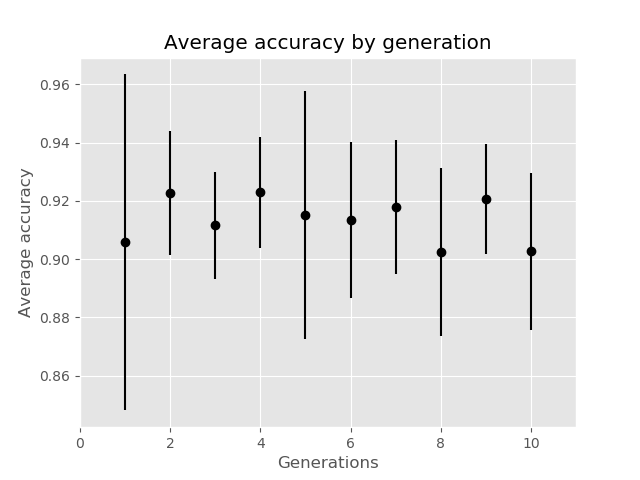
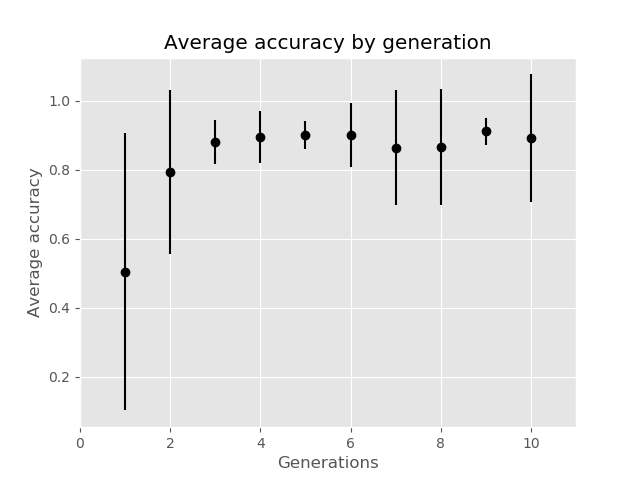
added log feature and updated readme

diff --git a/mnist_sandbox.py b/mnist_sandbox.py
@@ -22,13 +22,15 @@ fnns = ns.Population(
     size = 50
     )
 
-history = fnns.evolve(generations = 10)
+history = fnns.evolve(generations = 20)
 
 print("Best overall genome is:")
 print(history.fittest)
 
+history.save_log(file_name = '/home/dn16382/pCloudDrive/mnist_log.txt')
+
 history.plot(
-    title = "Average accuracy by generation",
-    ylabel = "Average accuracy",
-    saveto = 'mnist_plot.png'
+    title = "Average 1 / (1 - accuracy) by generation",
+    file_name = '/home/dn16382/pCloudDrive/mnist_plot.png',
+    show_plot = False
   )

diff --git a/setup.py b/setup.py
@@ -10,7 +10,7 @@ setuptools.setup(
         'nn = naturalselection.nn:main', 
         ]},
     install_requires = ['numpy','matplotlib','tqdm','tensorflow','sklearn'],
-    version = "0.1.12",
+    version = "0.2.3",
     author = "Dan Saattrup Nielsen",
     author_email = "saattrupdan@gmail.com",
     description = "An all-purpose pythonic genetic algorithm",

diff --git a/build/lib/naturalselection/__init__.py b/build/lib/naturalselection/__init__.py
@@ -1,0 +1,2 @@
+from naturalselection.core import Genus, Organism, Population, History
+from naturalselection.nn import FNN, get_nn_fitness_fn

diff --git a/README.md b/README.md
@@ -16,6 +16,7 @@ Here is a toy example optimising a pair of numbers with respect to division.
 
 ```python
 >>> import naturalselection as ns
+>>>
 >>> Pair = ns.Genus(x = range(1, 10000), y = range(1, 10000))
 >>> def division(number):
 ...   return number.x / number.y
@@ -23,12 +24,14 @@ Here is a toy example optimising a pair of numbers with respect to division.
 >>> pairs = ns.Population(genus = Pair, size = 10, fitness_fn = division)
 >>> history = pairs.evolve(generations = 100, progress_bars = 1)
 Evolving population: 100%|███████████████████| 100/100 [00:19<00:00,  5.03it/s]
+>>>
 >>> history.fittest
 {'genome': {'x': 9527, 'y': 190}, 'fitness': 50.142105263157895}
+>>>
 >>> history.plot()
 ```
 
-![Alt](gfx/example1.png "Optimising pairs of numbers")
+![Alt](https://filedn.com/lRBwPhPxgV74tO0rDoe8SpH/naturalselection_data/example1.png "Optimising pairs of numbers")
 
 
 Here is an example of finding a feed-forward neural network to model [MNIST](https://en.wikipedia.org/wiki/MNIST_database).
@@ -37,10 +40,13 @@ Here is an example of finding a feed-forward neural network to model [MNIST](htt
 >>> import naturalselection as ns
 >>> from tensorflow.keras.utils import to_categorical
 >>> import mnist
+>>>
+>>> # Standard train and test sets for MNIST
 >>> X_train = ((mnist.train_images() / 255) - 0.5).reshape((-1, 784))
 >>> Y_train = to_categorical(mnist.train_labels())
 >>> X_val = ((mnist.test_images() / 255) - 0.5).reshape((-1, 784))
 >>> Y_val = to_categorical(mnist.test_labels())
+>>>
 >>> fitness_fn = ns.get_nn_fitness_fn(
 ...   kind = 'fnn',
 ...   train_val_sets = (X_train, Y_train, X_val, Y_val),
@@ -49,25 +55,32 @@ Here is an example of finding a feed-forward neural network to model [MNIST](htt
 ...   output_activation = 'softmax',
 ...   max_training_time = 60
 ...   )
+>>>
 >>> fnns = ns.Population(
 ...   genus = ns.FNN(),
 ...   fitness_fn = fitness_fn,
 ...   size = 50
 ...   )
 >>> history = fnns.evolve(generations = 10)
-Evolving population: 100%|██████████████████| 10/10 [1:07:19<00:00, 403.97s/it]
-Computing fitness for generation: 100%|████████| 50/50 [06:57<00:00, 20.05s/it]
+Evolving population: 100%|██████████████████| 10/10 [2:20:14<00:00, 699.72s/it]
+Computing fitness for generation: 100%|████████| 23/23 [06:57<00:00, 20.05s/it]
+>>> 
 >>> history.fittest
-{'genome': {'optimizer': 'adam', 'hidden_activation': 'relu', 'batch_size': 64, 'initializer': 'he_normal', 'input_dropout': 0.0, 'hidden_dropout': (0.3, 0.0, 0.5), 'layers': (128, 1024)}, 'fitness': 0.965}
+{'genome': {'optimizer': 'nadam', 'hidden_activation': 'relu',
+'batch_size': 256, 'initializer': 'glorot_uniform', 'input_dropout': 0.2,
+'layer0': 64, 'dropout0': 0.0, 'layer1': 256, 'dropout1': 0.0, 'layer2': 256,
+'dropout2': 0.1, 'layer3': 128, 'dropout3': 0.0, 'layer4': 32, 'dropout4': 0.2}
+, 'fitness': 0.9646}
+>>> 
 >>> history.plot(
 ...   title = "Average accuracy by generation",
 ...   ylabel = "Average accuracy"
 ...   )
 ```
 
-![Alt](gfx/example2.png "Hyperparameter tuning for MNIST")
+![Alt](https://filedn.com/lRBwPhPxgV74tO0rDoe8SpH/naturalselection_data/example2.png "Hyperparameter tuning for MNIST")
 
 
 ## License
 
-This project is licensed under the [MIT License](LICENSE).
+This project is licensed under the [MIT License](https://github.com/saattrupdan/naturalselection/blob/master/LICENSE).
